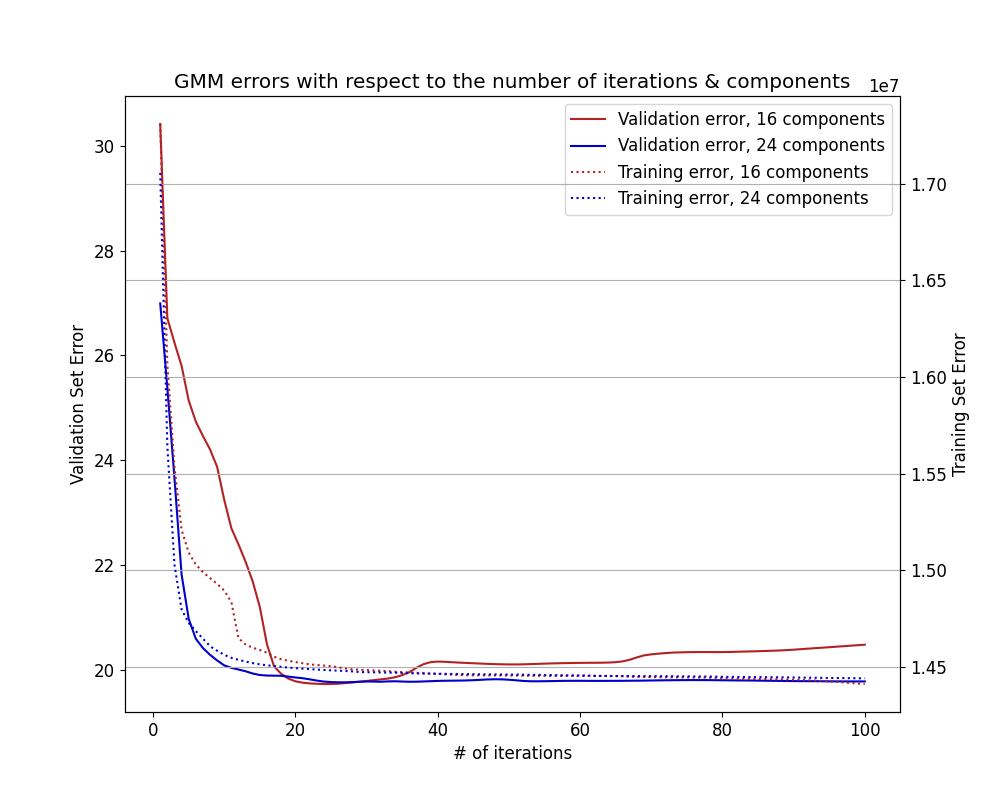
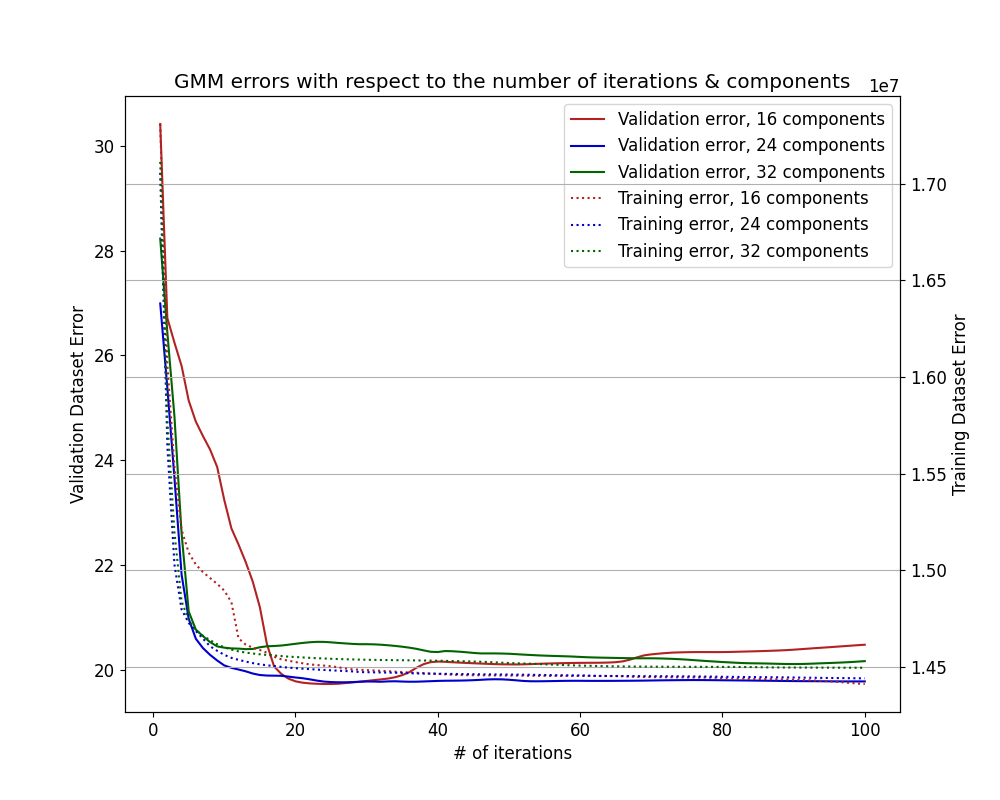
audio: add plot for 32 GMM components

diff --git a/audio/plotting.py b/audio/plotting.py
@@ -24,9 +24,12 @@ def load_training(filename):
 if __name__ == "__main__":
     scores_16 = load_scores("models/gmm_16.results")
     scores_24 = load_scores("models/gmm_24.results")
+    scores_32 = load_scores("models/gmm_32.results")
 
     training_16 = load_training("models/gmm_16.training")
     training_24 = load_training("models/gmm_24.training")
+    training_32 = load_training("models/gmm_32.training")
+
 
     x_axis = list(range(1, 100 + 1))
 
@@ -38,10 +41,13 @@ if __name__ == "__main__":
     ax1.plot(
         x_axis, scores_24, label="Validation error, 24 components", color="mediumblue"
     )
+    ax1.plot(
+        x_axis, scores_32, label="Validation error, 32 components", color="darkgreen"
+    )
     ax1.legend()
 
     ax2 = ax1.twinx()
-    ax2.set(ylabel="Training Set Error")
+    ax2.set(ylabel="Training Dataset Error")
     ax2.plot(
         x_axis,
         training_16,
@@ -56,8 +62,15 @@ if __name__ == "__main__":
         linestyle=":",
         color="mediumblue",
     )
+    ax2.plot(
+        x_axis,
+        training_32,
+        label="Training error, 32 components",
+        linestyle=":",
+        color="darkgreen",
+    )
 
-    ax1.set(xlabel="# of iterations", ylabel="Validation Set Error")
+    ax1.set(xlabel="# of iterations", ylabel="Validation Dataset Error")
     ax1.set_title("GMM errors with respect to the number of iterations & components")
 
     lines1, labels1 = ax1.get_legend_handles_labels()
